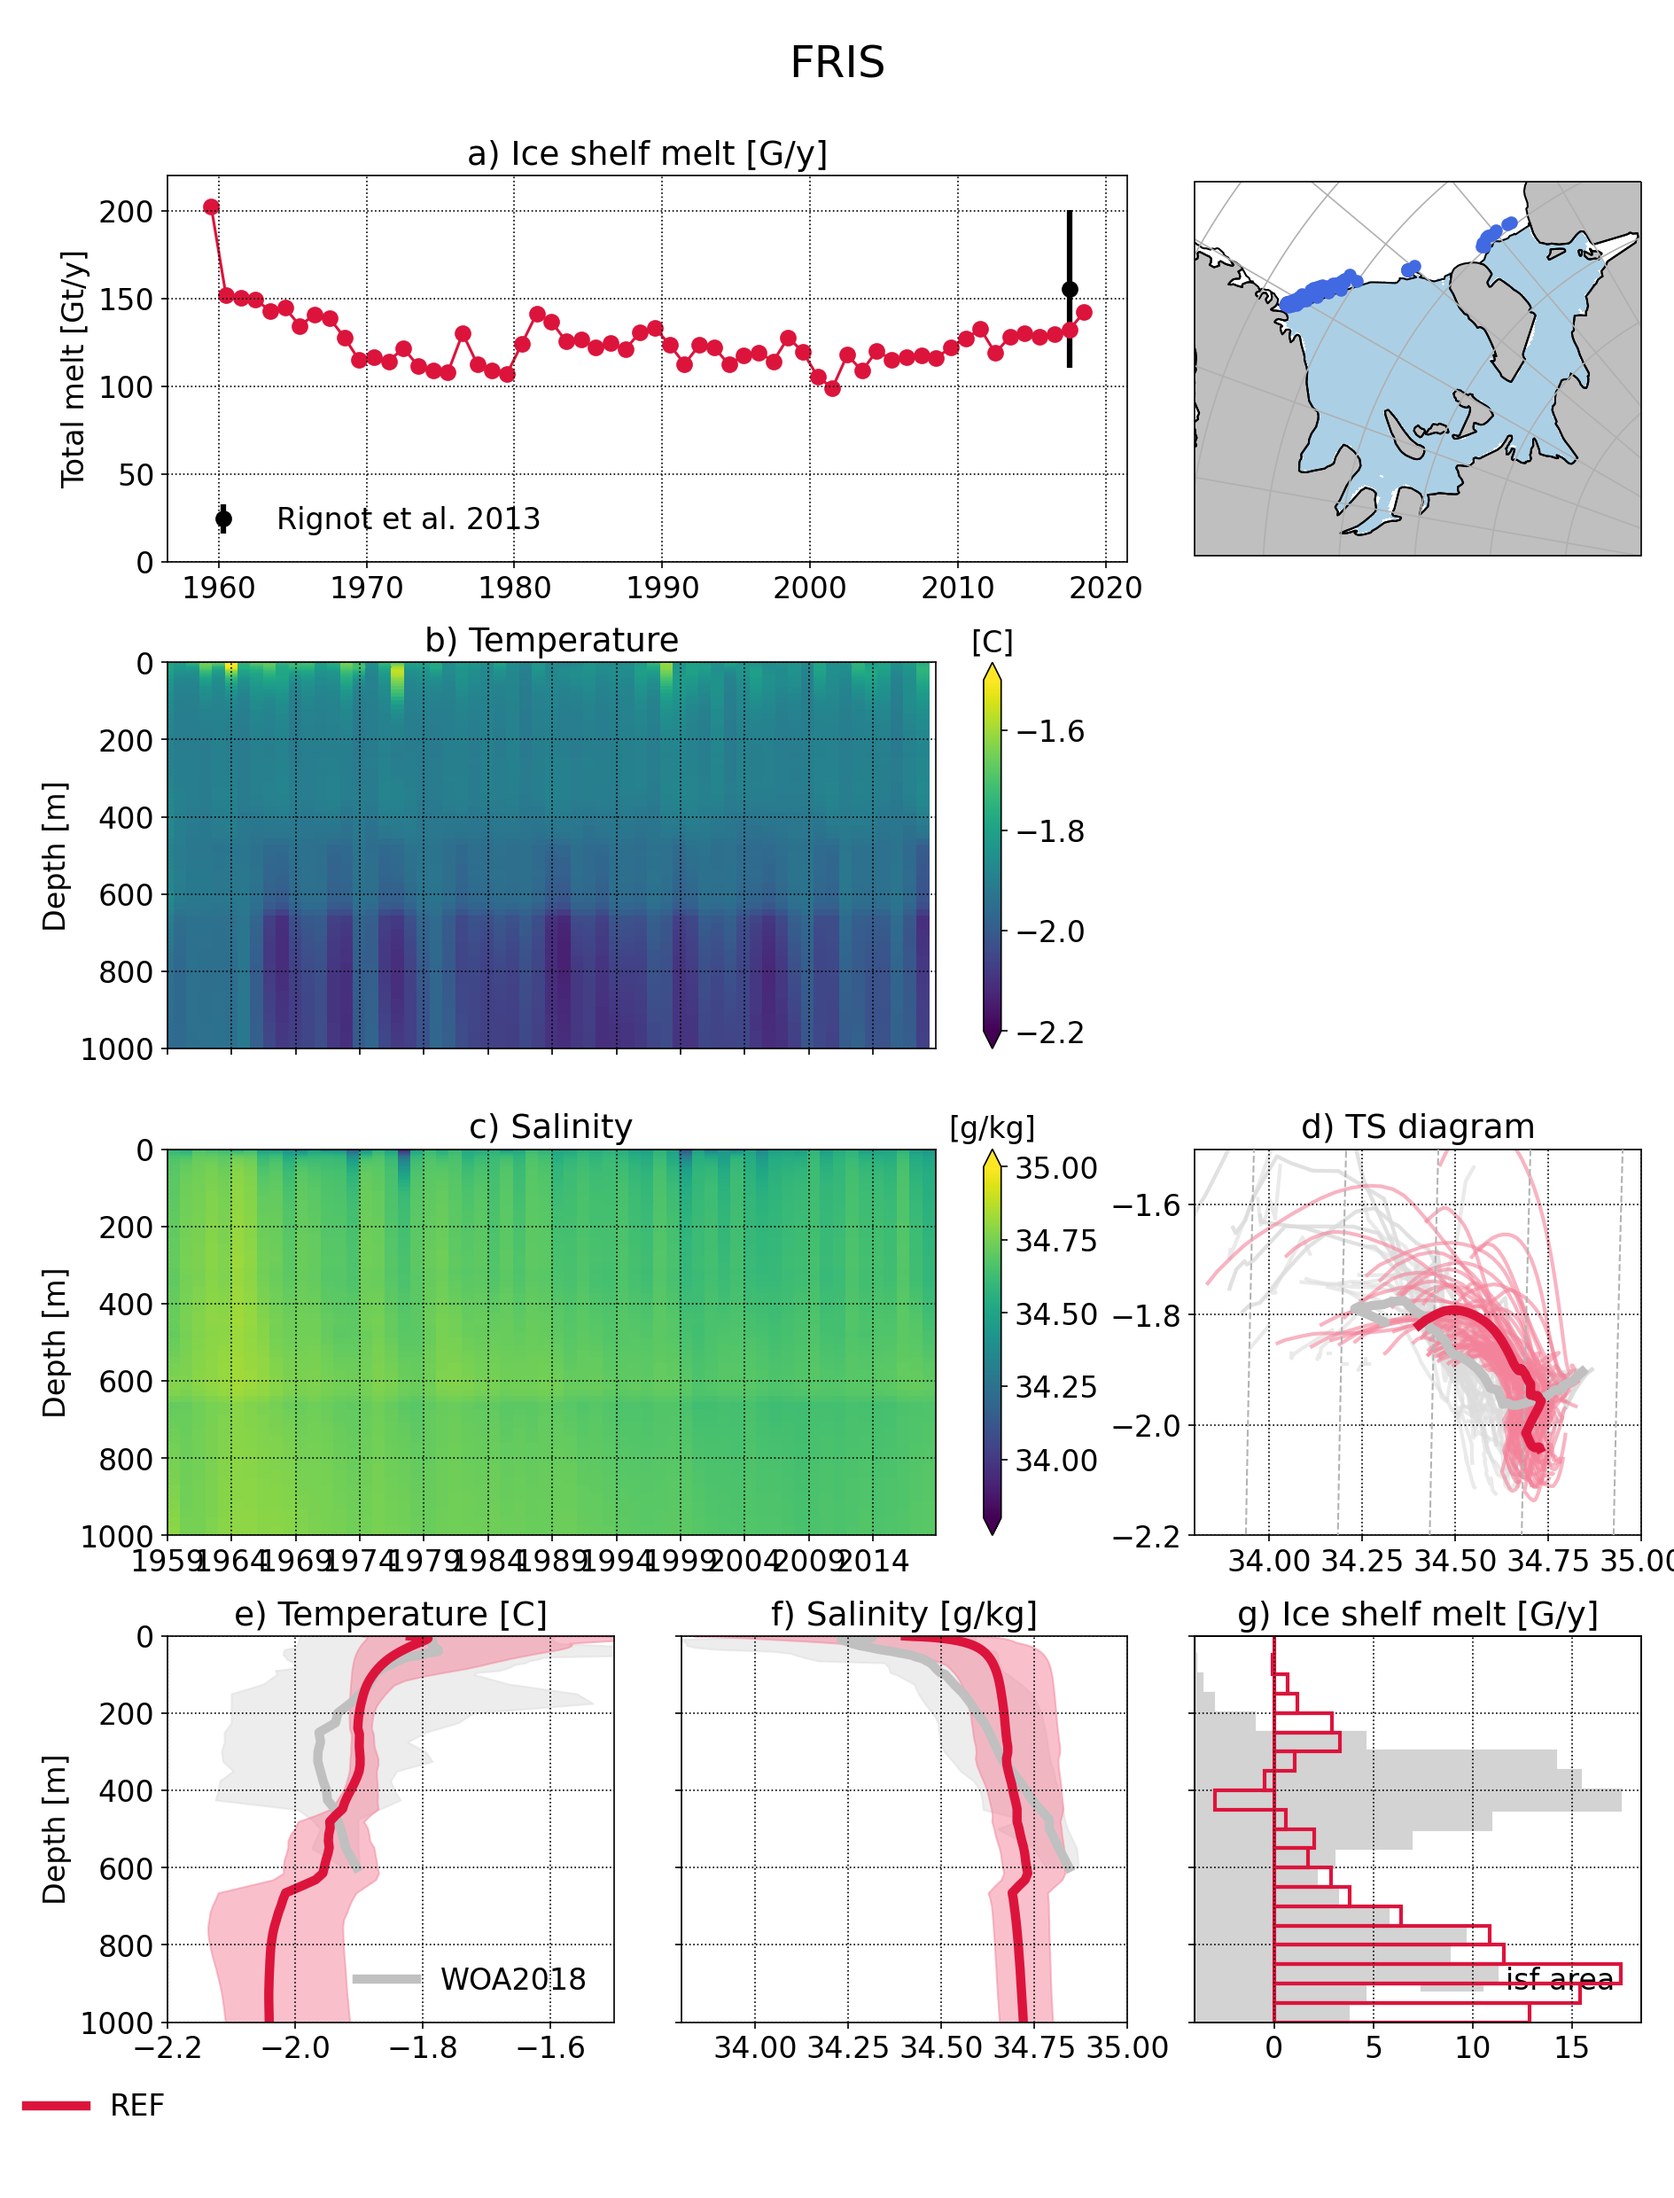
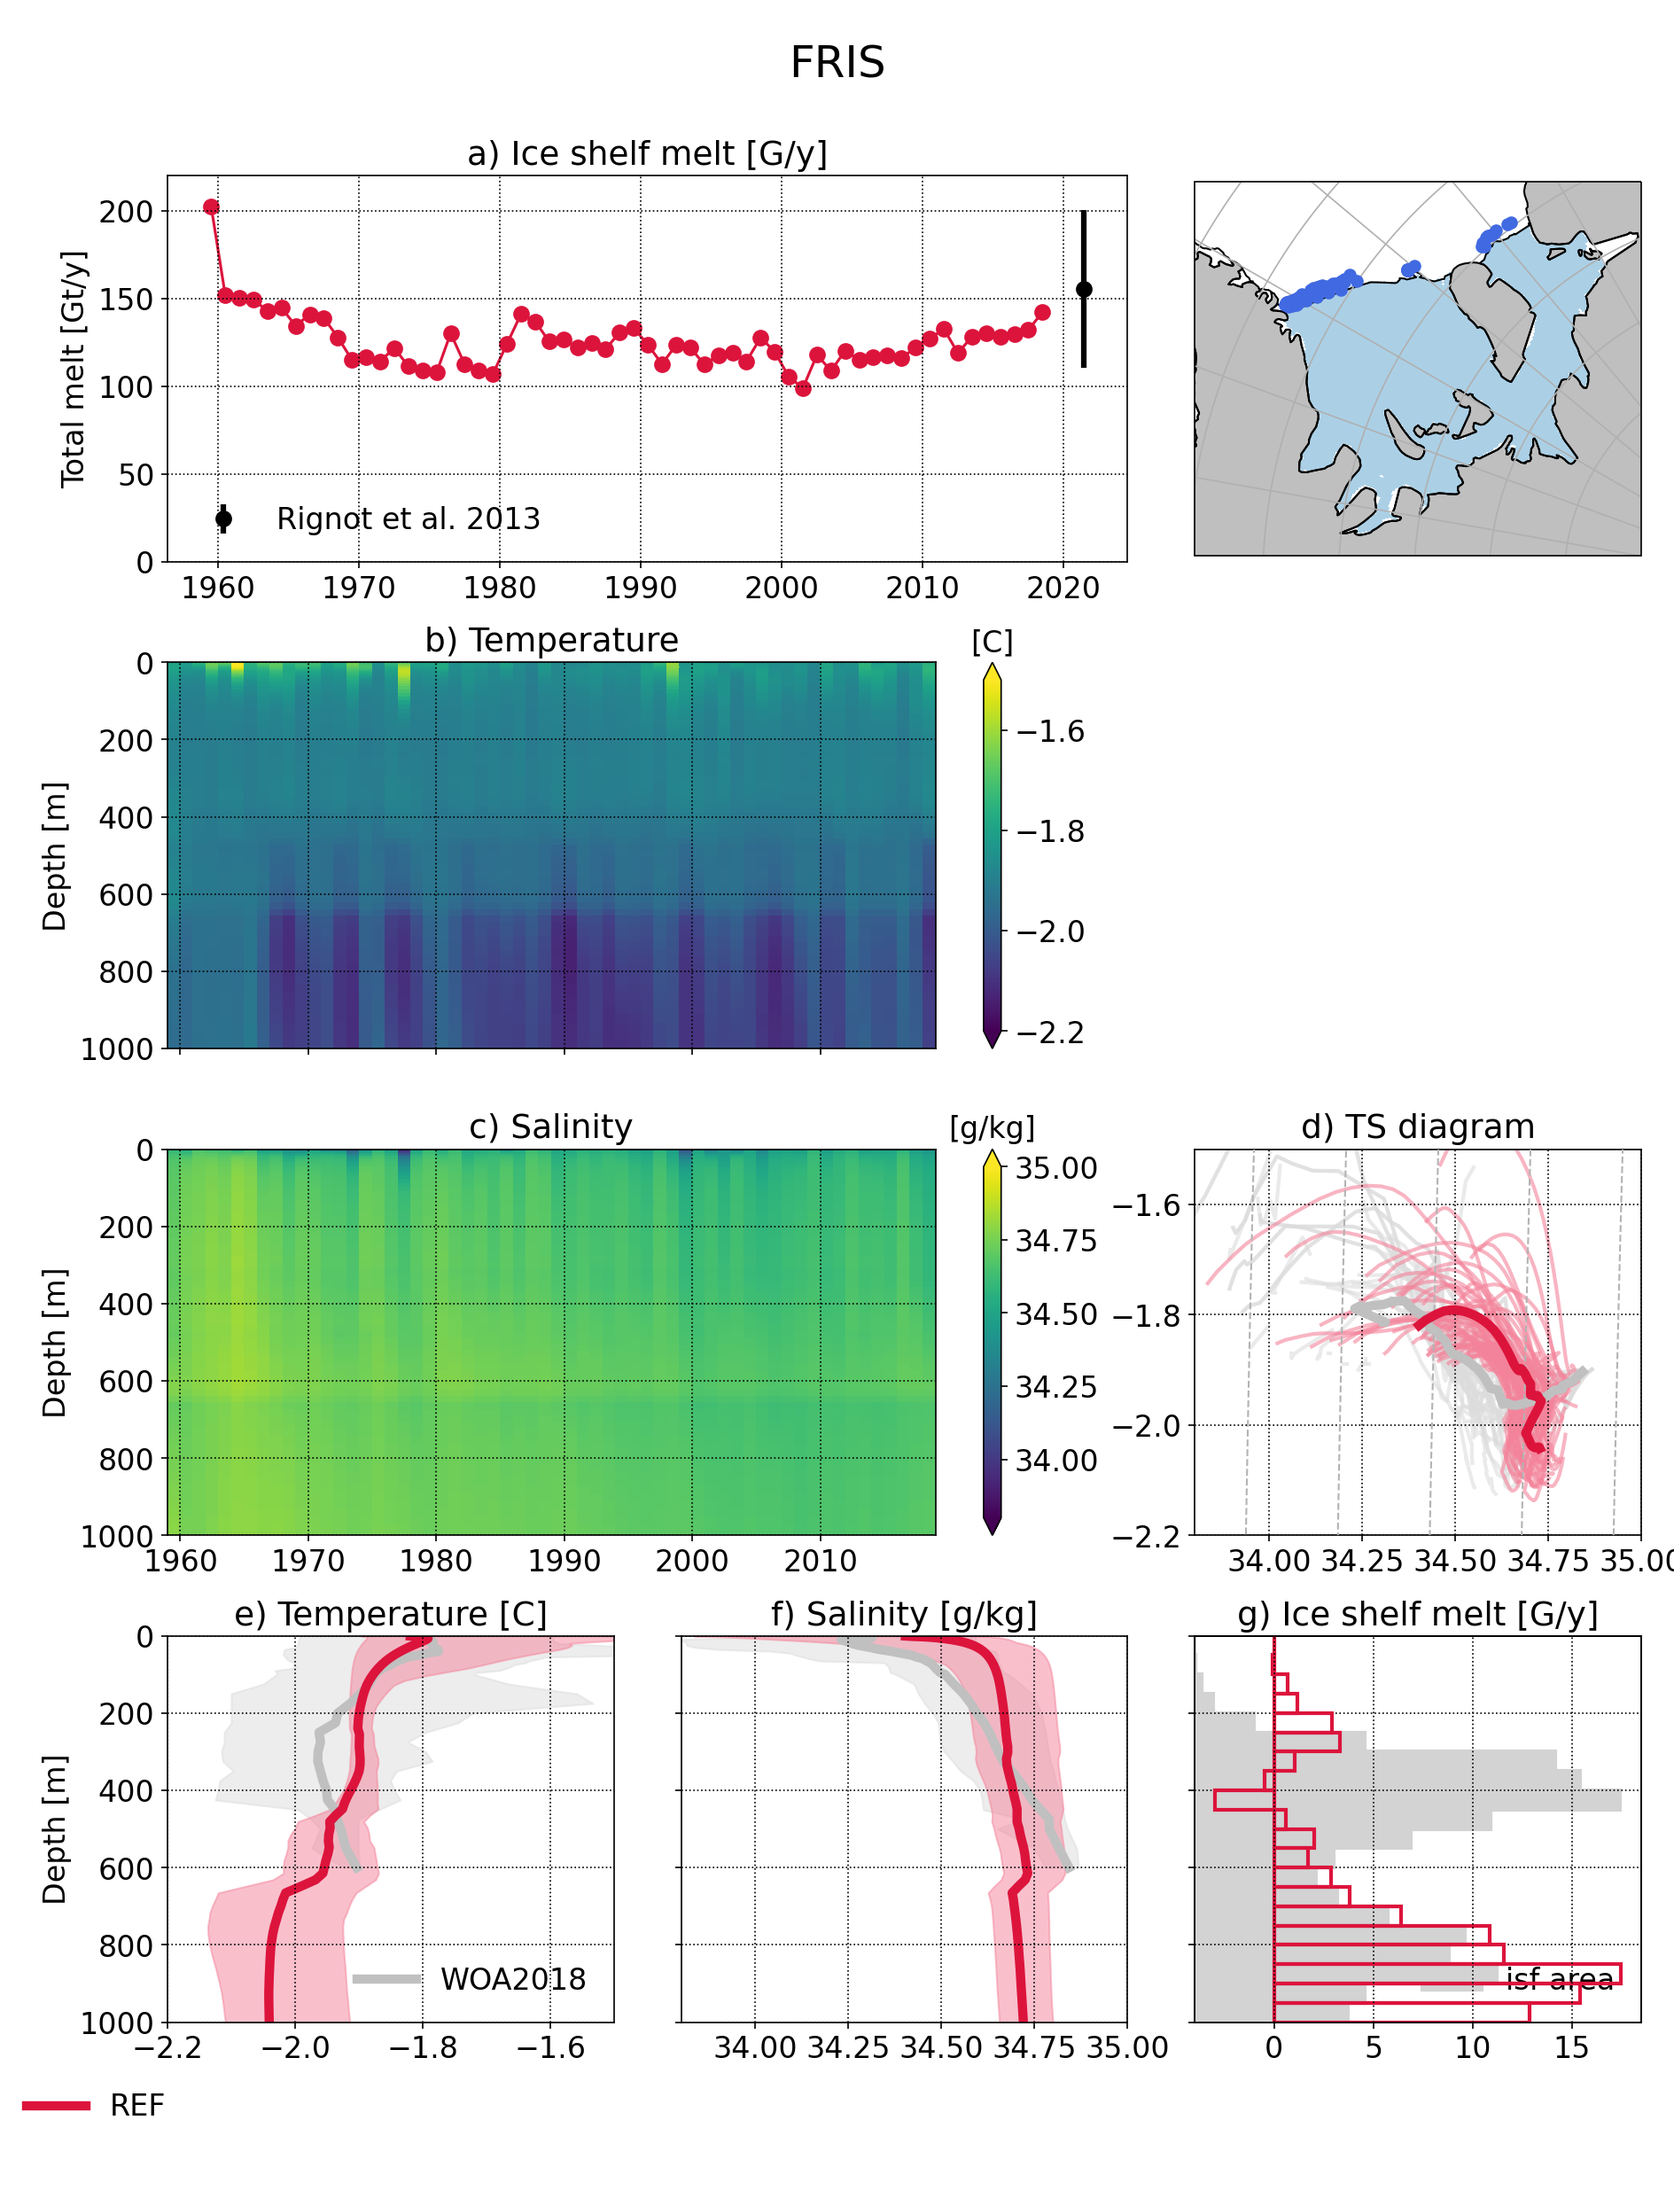
a bit a cleanning (rm duplicated routine)

diff --git a/SCRIPTS/plot_mlt_distri.py b/SCRIPTS/plot_mlt_distri.py
@@ -150,8 +150,8 @@ class run(object):
         self.name, self.clr  = self.load_att(runid)
 
         self.load_dnc(cdir, cfiletts, cvtem, '1', 'tempts')
-        self.load_dnc(cdir, cfilests, cvsal, '1', 'salts')
-        self.load_dnc(cdir, cfileqts, cvmlt, '1', 'mltts')
+        self.load_dnc(cdir, cfilests, cvsal, '1', 'salts' )
+        self.load_dnc(cdir, cfileqts, cvmlt, '1', 'mltts' )
         self.draft, self.area, self.melt, self.meltts, self.melttot, self.T, self.Tts, self.S, self.Sts = self.load_data(isfc,mshc)
 
     def load_dnc(self, cdir, cfile, cvar, cnf, ckey):
@@ -208,7 +208,7 @@ class run(object):
     def get_profilets(self,cvar,mshc):
         nt = len(self.dnc['cf'+cvar+'ts'])
         nk = get_dim(self.dnc['cf'+cvar+'ts'][0],'z')
-        timets=np.zeros(shape=nt)
+        timets=[None]*nt #np.zeros(shape=nt)
         prots=np.ma.zeros(shape=(nk,len(self.dnc['cf'+cvar+'ts'])+1))
         prots[:,0]=mshc.z[:]
         for kf,cfile in enumerate(self.dnc['cf'+cvar+'ts']) :
@@ -331,16 +331,17 @@ class plot(object):
         self.plot_obsTS(obsc)
         self.plot_TS(runlst)
        
-        self.plot_obst(obsc)
-        self.plot_proft(runlst)
+        self.plot_obs('profT',obsc.name,obsc.obsT,obsc.Tz)
+        self.plot_obs('profS',obsc.name,obsc.obsS,obsc.Sz)
 
-        self.plot_obss(obsc)
-        self.plot_profs(runlst)
+        for irun, runid in enumerate(runlst):
+            self.plot_prof('profT',runid,runid.Tts,runid.T)
+            self.plot_prof('profS',runid,runid.Sts,runid.S)
 
         if len(runlst) == 1:
             # temperture hovmuller
-            self.plot_hovT(isfc,runlst)
-            self.plot_hovS(isfc,runlst)
+            self.plot_hov('hovT',runlst[0].Tts,isfc.Trange[0],isfc.Trange[1],'[C]')
+            self.plot_hov('hovS',runlst[0].Sts,isfc.Srange[0],isfc.Srange[1],'[g/kg]')
 
         # map isf
         self.plot_mapisf(isfc,obsc,mshc)
@@ -376,29 +377,29 @@ class plot(object):
         self.ax['mapisf'].pcolormesh(mshc.lon[0:-4,:],mshc.lat[0:-4,:],isfc.msk[0:-4,:],vmin=0.5,vmax=2,cmap=cmap,transform=ccrs.PlateCarree(),rasterized=True, label=isfc.name, shading='flat')
         self.ax['mapisf'].plot(obsc.lon,obsc.lat,'o', markersize=6, color='royalblue', markeredgecolor='royalblue', transform=ccrs.PlateCarree(), label='WOA2018 obs')
 
-    def plot_hovT(self,isf,runlst):
-        runid=runlst[0]
-        datemin = mdates.date2num(np.datetime64(mdates.num2date(runid.Sts[0][0])))
-        datemax = mdates.date2num(np.datetime64(mdates.num2date(runid.Sts[0][-1]+365)))
-        pcol=self.ax['hovT'].pcolormesh(runid.Tts[0][:],runid.Tts[1][:,0],runid.Tts[1][:,1::],vmin=isf.Trange[0], vmax=isf.Trange[1], shading='nearest')
-        self.ax['hovT'].set_xlim(datemin, datemax)
-        self.ax['hovT'].set_xticks(np.arange(datemin, datemax, 5*366))
-        self.ax['hovT'].xaxis.set_major_formatter(mdates.DateFormatter('%Y'))
-        cbar = plt.colorbar(pcol, ax=self.ax['hovT'], extend='both')
+    def plot_hov(self,cax,dat,rmin,rmax,cunit):
+        # plot
+        pcol=self.ax[cax].pcolormesh(dat[0][:],dat[1][:,0],dat[1][:,1::],vmin=rmin, vmax=rmax, shading='nearest')
+        #
+        # xaxis
+        datemin = mdates.num2date(dat[0][0])
+        datemax = mdates.num2date(dat[0][-1])
+        nyear=(datemax-datemin).days/365 + 1
+        if nyear < 10:
+            nyt=1
+        elif 10<=nyear<50:
+            nyt=5
+        elif 50<=nyear<100:
+            nyt=10
+        else:
+            nyt=100
+        self.ax[cax].xaxis.set_major_locator(mdates.YearLocator(nyt,month=1,day=1))
+        self.ax[cax].xaxis.set_major_formatter(mdates.DateFormatter('%Y'))
+        #
+        # cbar
+        cbar = plt.colorbar(pcol, ax=self.ax[cax], extend='both')
         cbar.ax.tick_params(labelsize=16)
-        cbar.ax.set_title('[C]',fontsize=16)
-
-    def plot_hovS(self,isf,runlst):
-        runid=runlst[0]
-        datemin = mdates.date2num(np.datetime64(mdates.num2date(runid.Sts[0][0]), 'Y'))
-        datemax = mdates.date2num(np.datetime64(mdates.num2date(runid.Sts[0][-1]+365), 'Y'))
-        pcol=self.ax['hovS'].pcolormesh(runid.Sts[0][:],runid.Sts[1][:,0],runid.Sts[1][:,1::],vmin=isf.Srange[0], vmax=isf.Srange[1], shading='nearest')
-        self.ax['hovS'].set_xlim(datemin, datemax)
-        self.ax['hovS'].set_xticks(np.arange(datemin, datemax, 5*366))
-        self.ax['hovS'].xaxis.set_major_formatter(mdates.DateFormatter('%Y'))
-        cbar = plt.colorbar(pcol, ax=self.ax['hovS'], extend='both')
-        cbar.ax.tick_params(labelsize=16)
-        cbar.ax.set_title('[g/kg]',fontsize=16)
+        cbar.ax.set_title(cunit,fontsize=16)
 
     def plot_obsTS(self,obsc):
         TScastid = set(obsc.Scast).intersection(obsc.Tcast)
@@ -426,33 +427,18 @@ class plot(object):
         CS = self.ax['TS'].contour(si, ti, dens, cnt_lvl, linestyles='dashed', colors='0.7',zorder=99, linewidths=1)
         self.ax['TS'].clabel(CS, inline=True, fontsize=12, fmt='%4.2f', inline_spacing=1) # Label every second level
 
-    def plot_proft(self,runlst):
-        for irun, runid in enumerate(runlst):
-            datmin=np.amin(runid.Tts[1][:,1:],axis=1)
-            datmax=np.amax(runid.Tts[1][:,1:],axis=1)
-            self.ax['profT'].fill_betweenx(runid.Tts[1][:,0],datmin[:],datmax[:],color=lighten_color(runid.clr,0.5),alpha=0.5)
-            self.ax['profT'].plot(runid.T[:,1],runid.T[:,0],color=runid.clr,linewidth=5,label=runid.name)
+    def plot_prof(self,cax,runid,datts,dat):
+        datmin=np.amin(datts[1][:,1:],axis=1)
+        datmax=np.amax(datts[1][:,1:],axis=1)
+        self.ax[cax].fill_betweenx(datts[1][:,0],datmin[:],datmax[:],color=lighten_color(runid.clr,0.5),alpha=0.5)
+        self.ax[cax].plot(dat[:,1],dat[:,0],color=runid.clr,linewidth=5,label=runid.name)
 
-    def plot_profs(self,runlst):
-        for irun, runid in enumerate(runlst):
-            datmin=np.amin(runid.Sts[1][:,1:],axis=1)
-            datmax=np.amax(runid.Sts[1][:,1:],axis=1)
-            self.ax['profS'].fill_betweenx(runid.Sts[1][:,0],datmin[:],datmax[:],color=lighten_color(runid.clr,0.5),alpha=0.5)
-            self.ax['profS'].plot(runid.S[:,1],runid.S[:,0],color=runid.clr,linewidth=5,label=runid.name)
-
-    def plot_obst(self,obsc):
-        datmin=np.nanmin(obsc.obsT[:,:],axis=1)
-        datmax=np.nanmax(obsc.obsT[:,:],axis=1)
-        zdat  =np.nanmean(obsc.Tz[:,:],axis=1)
-        self.ax['profT'].fill_betweenx(zdat,datmin,datmax,color='gainsboro',alpha=0.5)
-        self.ax['profT'].plot(np.nanmean(obsc.obsT,axis=1),np.nanmean(obsc.Tz,axis=1),color='silver',linewidth=5,label=obsc.name)
-
-    def plot_obss(self,obsc):
-        datmin=np.nanmin(obsc.obsS[:,:],axis=1)
-        datmax=np.nanmax(obsc.obsS[:,:],axis=1)
-        zdat  =np.nanmean(obsc.Sz[:,:],axis=1)
-        self.ax['profS'].fill_betweenx(zdat,datmin,datmax,color='gainsboro',alpha=0.5)
-        self.ax['profS'].plot(np.nanmean(obsc.obsS,axis=1),np.nanmean(obsc.Sz,axis=1),color='silver',linewidth=5,label=obsc.name)
+    def plot_obs(self,cax,clabel,obsdat,obsz):
+        datmin=np.nanmin(obsdat[:,:],axis=1)
+        datmax=np.nanmax(obsdat[:,:],axis=1)
+        zdat  =np.nanmean(obsz[:,:],axis=1)
+        self.ax[cax].fill_betweenx(zdat,datmin,datmax,color='gainsboro',alpha=0.5)
+        self.ax[cax].plot(np.nanmean(obsdat,axis=1),np.nanmean(obsz,axis=1),color='silver',linewidth=5,label=clabel)
 
     def plot_aread(self,runlst):
         # plot area distri only for one simulation
@@ -471,7 +457,10 @@ class plot(object):
             self.ax['meltt'].plot(runid.melttot, marker='o', markeredgecolor=runid.clr, color=runid.clr, markersize=8)
 
     def plot_meltts(self,runlst,obsc):
-        timemax=np.max([runlst[irun].meltts[0][-2] for irun in range(0,len(runlst))])
+        timemax=np.max([runlst[irun].meltts[0][-1] for irun in range(0,len(runlst))])
+        timemin=np.min([runlst[irun].meltts[0][0] for irun in range(0,len(runlst))])
+        timemax=timemax + (timemax-timemin)/20.
+
         for irun, runid in enumerate(runlst):
             self.ax['meltts'].plot(runid.meltts[0][:], runid.meltts[1][:], '-o', markeredgecolor=runid.clr, color=runid.clr, markersize=8)
         self.ax['meltts'].errorbar(timemax, obsc.obsm[0], yerr=obsc.obsm[1], fmt='o', markersize=8, color='k', linewidth=3, label='Rignot et al. 2013')
@@ -520,7 +509,7 @@ class plot(object):
 
     # save plot
     def save(self):
-        self.fig.savefig(self.fout+'.png', format='png', dpi=150)
+        self.fig.savefig('FIGURES/'+self.fout+'.png', format='png', dpi=150)
 
     def add_legend(self, ncol=5, lvis=True):
         # isf area
@@ -639,9 +628,9 @@ def get_time_data(cfile,cvar):
     timeidx=[None]*ntime
     for itime in range(0, ntime):
         if isinstance(time,(list,np.ndarray)):
-            timeidx[itime] = np.datetime64(time[itime],'us')
+            timeidx[itime] = np.datetime64(time[itime])#,'us')
         else:
-            timeidx[itime] = np.datetime64(time,'us')
+            timeidx[itime] = np.datetime64(time)       #,'us')
 
     return timeidx[:]
 
@@ -780,7 +769,7 @@ def main():
     args = load_argument()
 
 # output argument list
-    output_argument_lst(args.o[0]+'.txt', sys.argv)
+    output_argument_lst('FIGURES/'+args.o[0]+'.txt', sys.argv)
 
 # initialisation
     print('initialisation')
